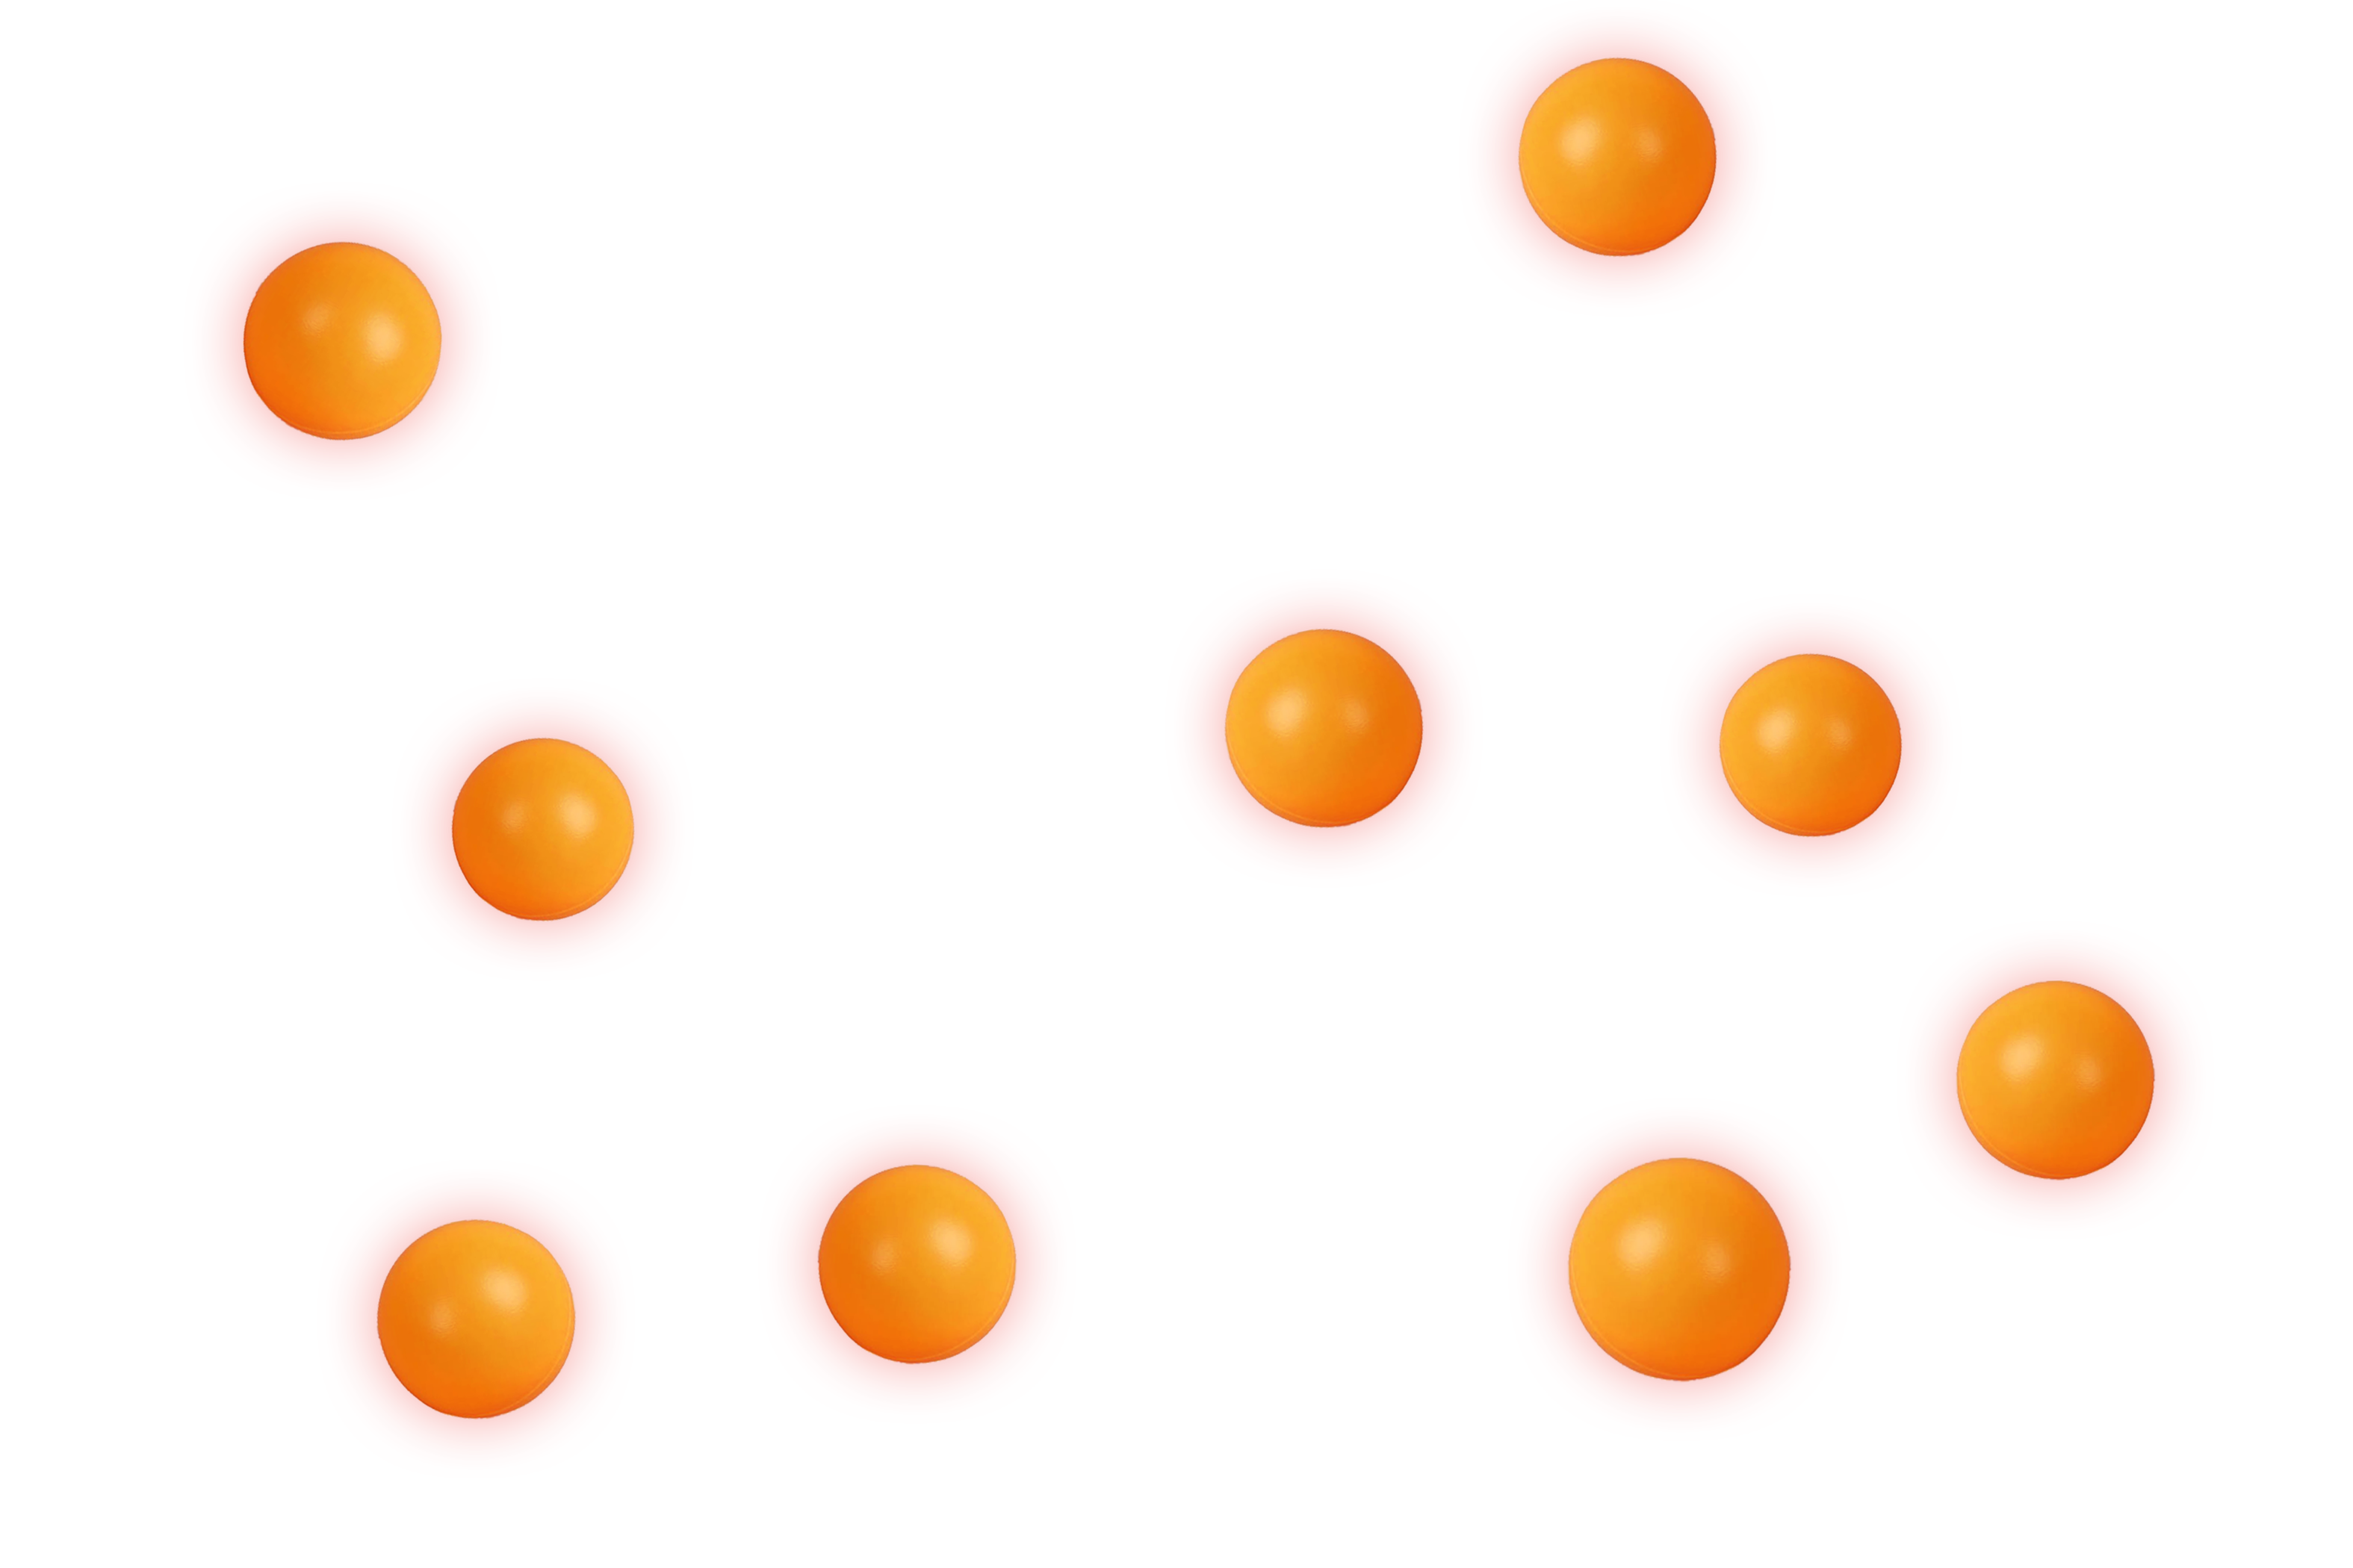
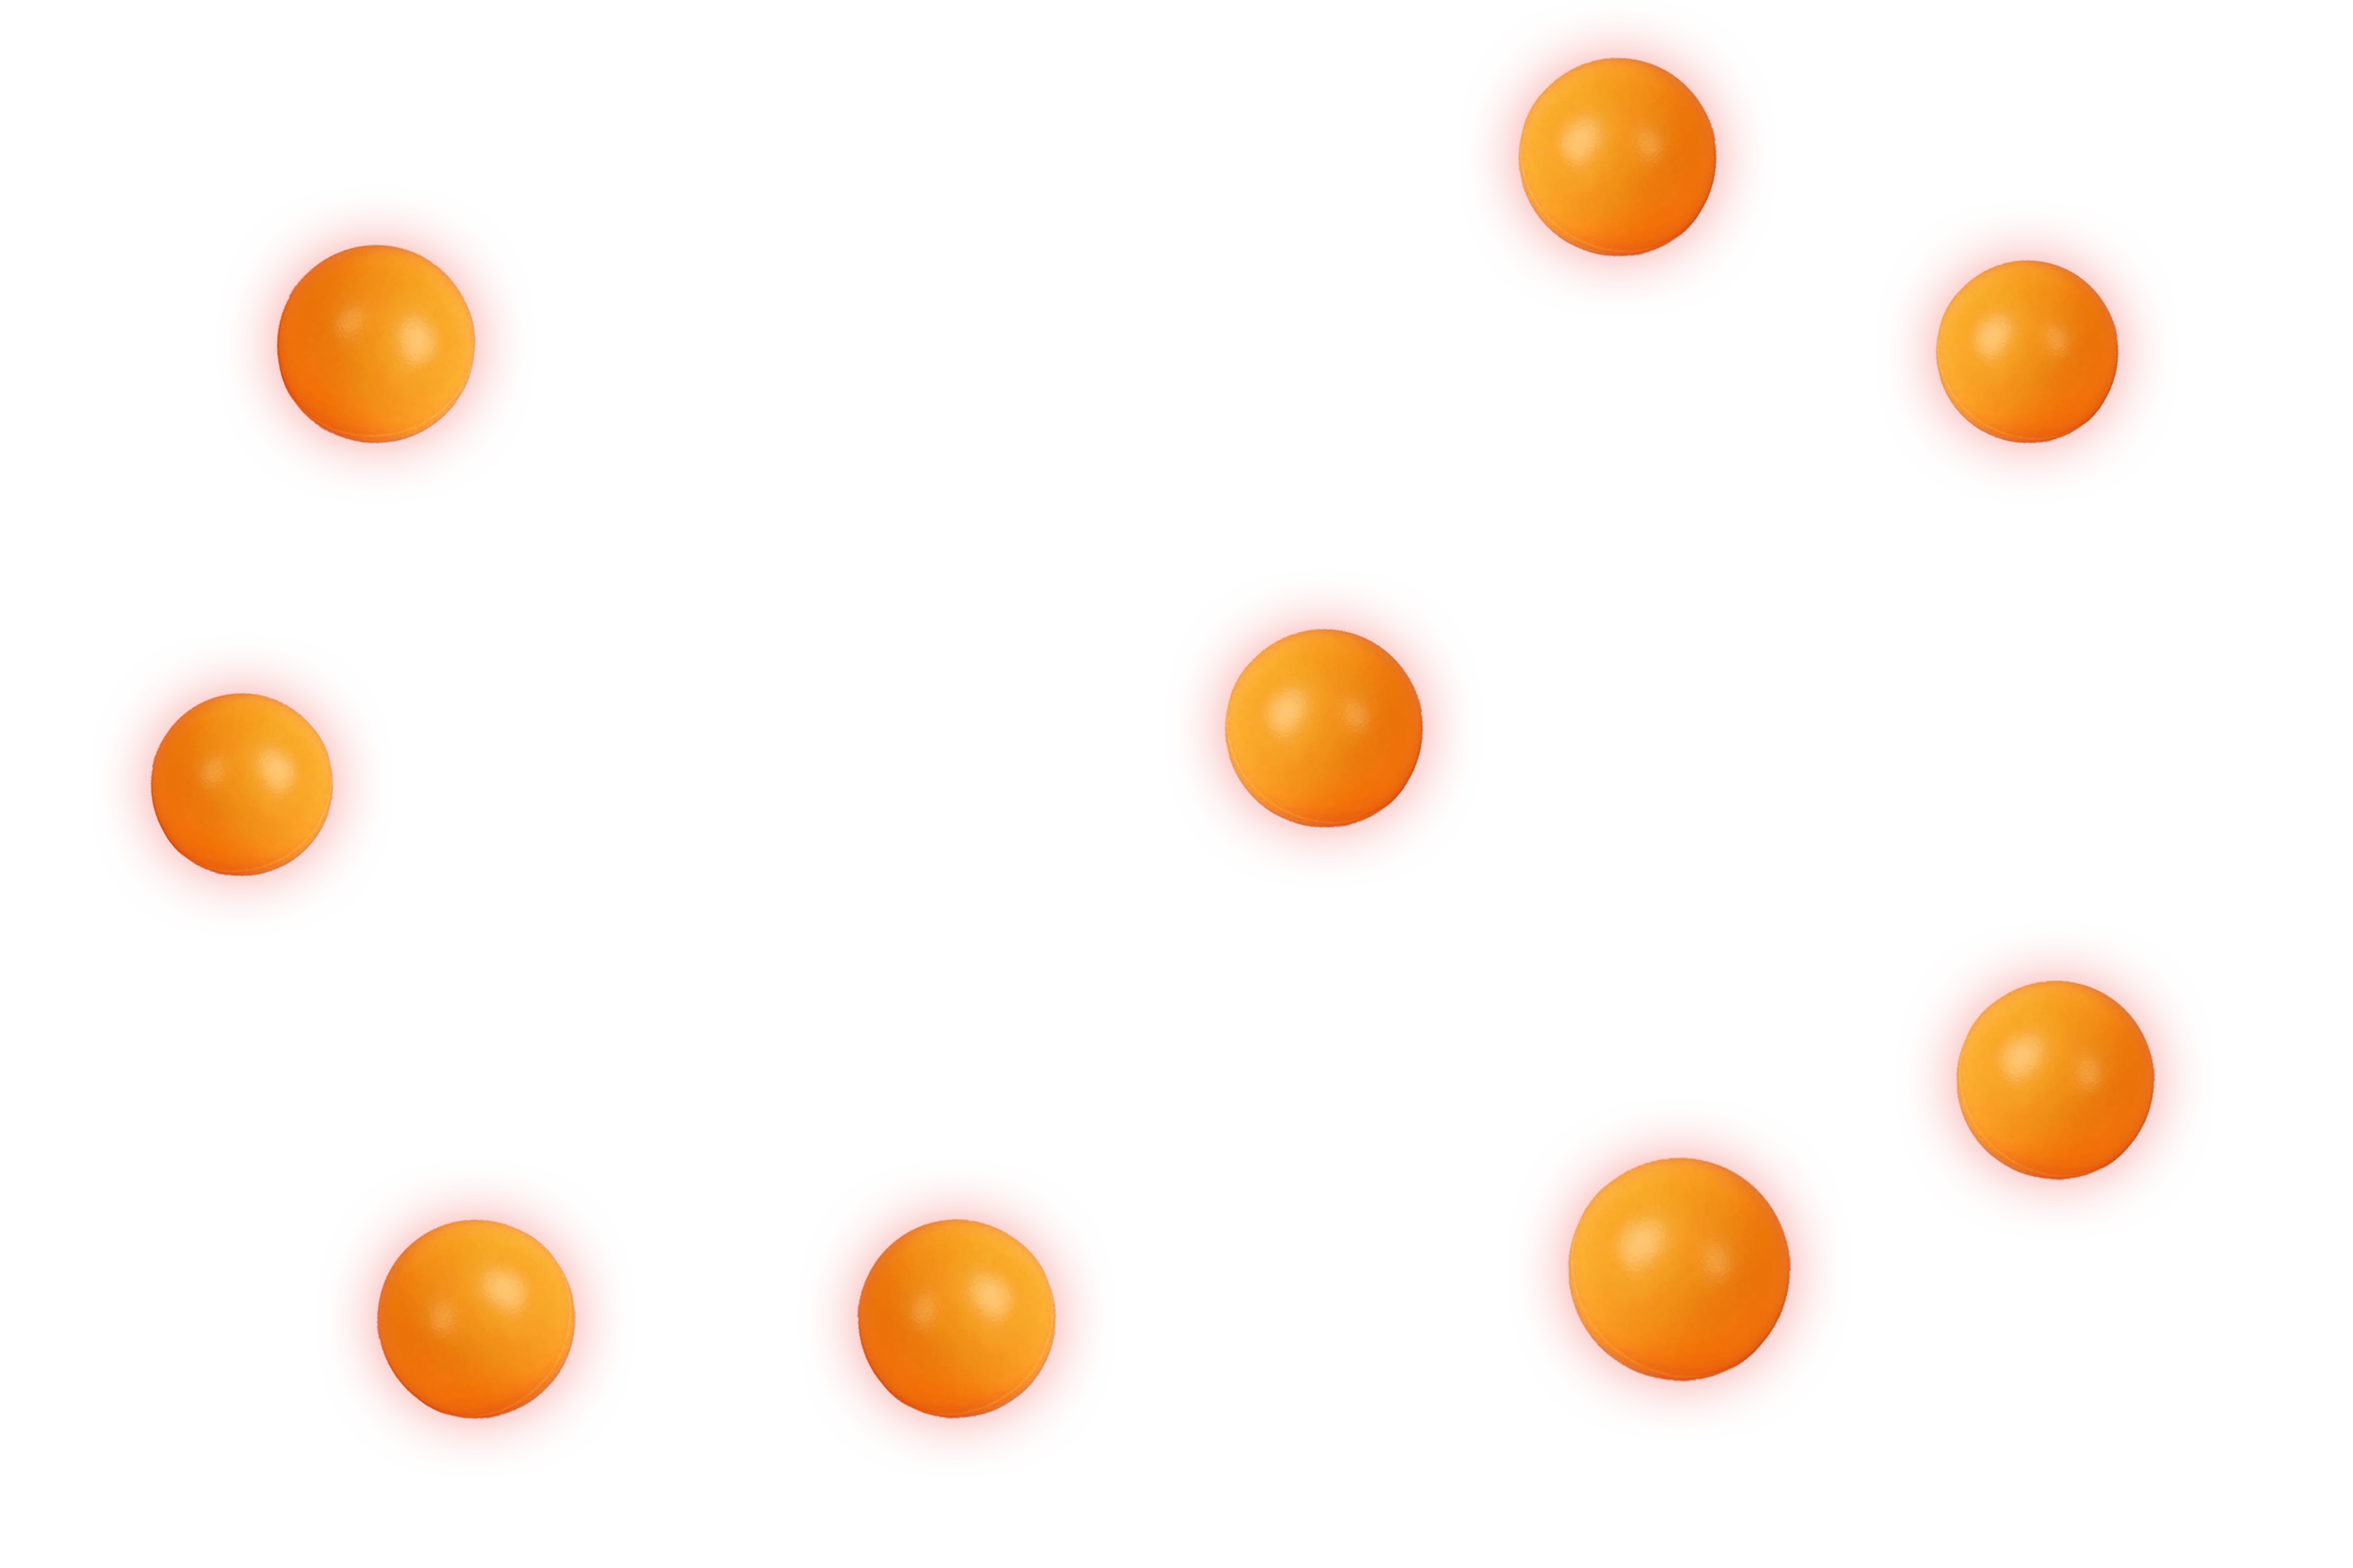
Added More Layers

diff --git a/css/style.css b/css/style.css
@@ -132,6 +132,15 @@ a {
   z-index: 5; /*Fifth Layer*/
 }
 
+.pingpongxxl {
+  background: url("../Images/pingpongxxl.png") no-repeat top;
+  background-size: cover;
+  transform: translateY(80px) translateZ(220px) scale(0.29);
+  opacity: 20%;
+  filter: blur(22px);
+  overflow: hidden;
+  z-index: 6; /*Sixth Layer*/
+}
 /*Add the rest of the layers with translate -75px and scale -25*/
 .hero-text {
   background-image: linear-gradient(
@@ -161,6 +170,7 @@ a {
   position: absolute;
   right: 2.5rem;
   top: 2rem;
+  z-index: -5;
 }
 
 .hero-text ul li {
@@ -224,13 +234,13 @@ a {
   border: 1px solid #ee4540;
   box-shadow: #ee4540 0 0 30px;
   margin-top: 0.5rem;
-  margin-bottom: 4rem;
+  margin-bottom: 8rem;
 }
 
 .gridContainer img {
   width: fit-content;
   margin-top: 0.5rem;
-  margin-bottom: 4rem;
+  margin-bottom: 8rem;
 }
 
 .gridContainer h2,

diff --git a/index.html b/index.html
@@ -17,6 +17,7 @@
             <div class="layerParallax pingpongs"></div>
             <div class="layerParallax pingpongl"></div>
             <div class="layerParallax pingpongxl"></div>
+            <div class="layerParallax pingpongxxl"></div>
             <!-- Transparent Navigation Bar -->
             <div class="layerParallax hero-text">
                 <h2>Senior Design | 2021</h2>
